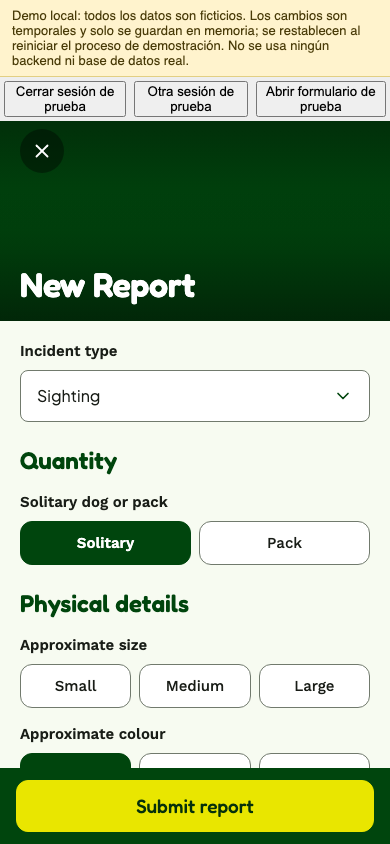
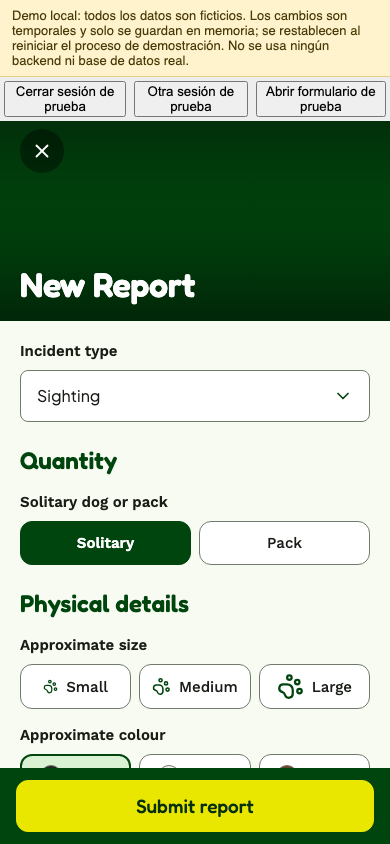
style(design): TD-134 Formulario: colores con muestra del pelaje y tamaños con huellas crecientes
ChoiceGroup acepta adornos: círculo con el color real del pelaje (mixto en dos tonos) y huella de tamaño creciente. Las opciones de color se marcan con borde y fondo suave. Mismos testIDs, textos y lógica.

diff --git a/screens/ReportFormScreen.js b/screens/ReportFormScreen.js
@@ -141,8 +141,30 @@ function textInputIdentity(id, name) {
   return { id, name, nativeID: id };
 }
 
+/** Pelt colors drawn on the color chips; `mixto` is split in two tones. */
+const COAT_COLORS = { negro: '#222622', blanco: '#f6f4ee', 'café': '#6b4226', gris: '#8c918c', dorado: '#d9a441' };
+
+/** Round color sample for a dog color option. */
+function CoatDot({ value }) {
+  if (value === 'mixto') {
+    return (
+      <View style={styles.dot}>
+        <View style={[styles.dotHalf, { backgroundColor: '#222622' }]} />
+        <View style={[styles.dotHalf, { backgroundColor: '#f6f4ee' }]} />
+      </View>
+    );
+  }
+  return <View style={[styles.dot, { backgroundColor: COAT_COLORS[value] ?? colors.outline }]} />;
+}
+
+/** Paw that grows with the dog size, so the options read at a glance. */
+function SizePaw({ value, selected }) {
+  const size = { chico: 15, mediano: 21, grande: 27 }[value];
+  return size ? <Icon name="dog" size={size} color={selected ? colors.onPrimary : colors.primary} /> : null;
+}
+
 /** Group of option chips; `allowDeselect` lets a second tap clear the value. */
-function ChoiceGroup({ label, field, value, options, disabled, error, t, onChange, allowDeselect = false }) {
+function ChoiceGroup({ label, field, value, options, disabled, error, t, onChange, allowDeselect = false, adornment, soft = false }) {
   const message = fieldErrorText(error, t);
   return (
     <View style={styles.fieldGroup}>
@@ -160,12 +182,14 @@ function ChoiceGroup({ label, field, value, options, disabled, error, t, onChang
               onPress={() => onChange(allowDeselect && selected ? '' : option.value)}
               style={({ pressed }) => [
                 styles.choice,
-                selected && styles.choiceSelected,
+                adornment && styles.choiceWithAdornment,
+                selected && (soft ? styles.choiceSoftSelected : styles.choiceSelected),
                 disabled && styles.disabled,
                 pressed && !disabled && styles.pressed,
               ]}
             >
-              <Text style={[styles.choiceText, selected && styles.choiceTextSelected]}>
+              {adornment ? adornment(option.value, selected) : null}
+              <Text style={[styles.choiceText, selected && (soft ? styles.choiceTextSoftSelected : styles.choiceTextSelected)]}>
                 {option.label}
               </Text>
             </Pressable>
@@ -521,6 +545,7 @@ export default function ReportFormScreen({
                     t={t}
                     onChange={(value) => updateField('dog_size', value)}
                     allowDeselect
+                    adornment={(value, selected) => <SizePaw value={value} selected={selected} />}
                   />
                   <ChoiceGroup
                     label={t('reportForm.fields.dog_color')}
@@ -532,6 +557,8 @@ export default function ReportFormScreen({
                     t={t}
                     onChange={(value) => updateField('dog_color', value)}
                     allowDeselect
+                    soft
+                    adornment={(value) => <CoatDot value={value} />}
                   />
                   {detectedColor ? (
                     <Text testID="report-dog_color-detected" style={styles.colorHint}>
@@ -701,6 +728,11 @@ const styles = StyleSheet.create({
   selectOptionTextSelected: { fontFamily: fontFamily.label, color: colors.primary },
   choiceGrid: { flexDirection: 'row', flexWrap: 'wrap', gap: spacing.sm },
   choice: { flexGrow: 1, flexBasis: 92, minHeight: layout.minTouch, borderRadius: radius.md, borderWidth: 1, borderColor: colors.outline, backgroundColor: colors.surface, alignItems: 'center', justifyContent: 'center', paddingHorizontal: spacing.md, paddingVertical: spacing.sm },
+  choiceWithAdornment: { flexDirection: 'row', gap: spacing.sm, justifyContent: 'center' },
+  choiceSoftSelected: { backgroundColor: colors.primarySoft, borderColor: colors.primary, borderWidth: 2 },
+  choiceTextSoftSelected: { fontFamily: fontFamily.label, color: colors.primary },
+  dot: { width: 22, height: 22, borderRadius: 11, borderWidth: 1, borderColor: colors.outline, overflow: 'hidden', flexDirection: 'row' },
+  dotHalf: { flex: 1 },
   choiceSelected: { backgroundColor: colors.primary, borderColor: colors.primary },
   choiceText: { fontFamily: fontFamily.labelMedium, fontSize: 15, lineHeight: 20, color: colors.ink, textAlign: 'center' },
   choiceTextSelected: { fontFamily: fontFamily.label, color: colors.onPrimary },
